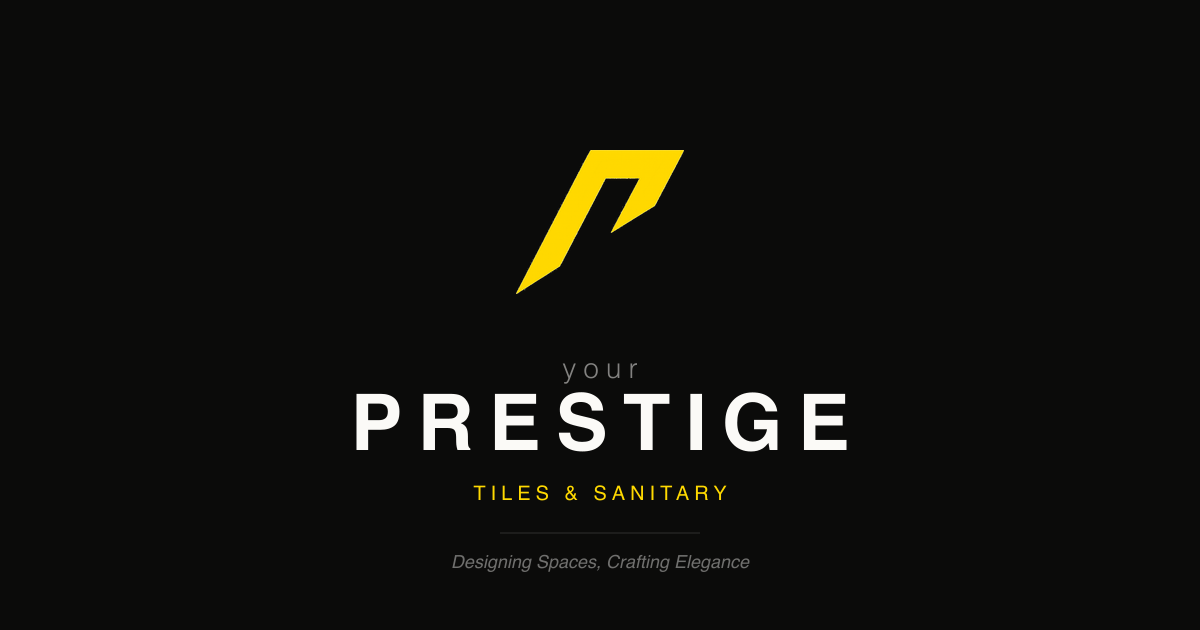
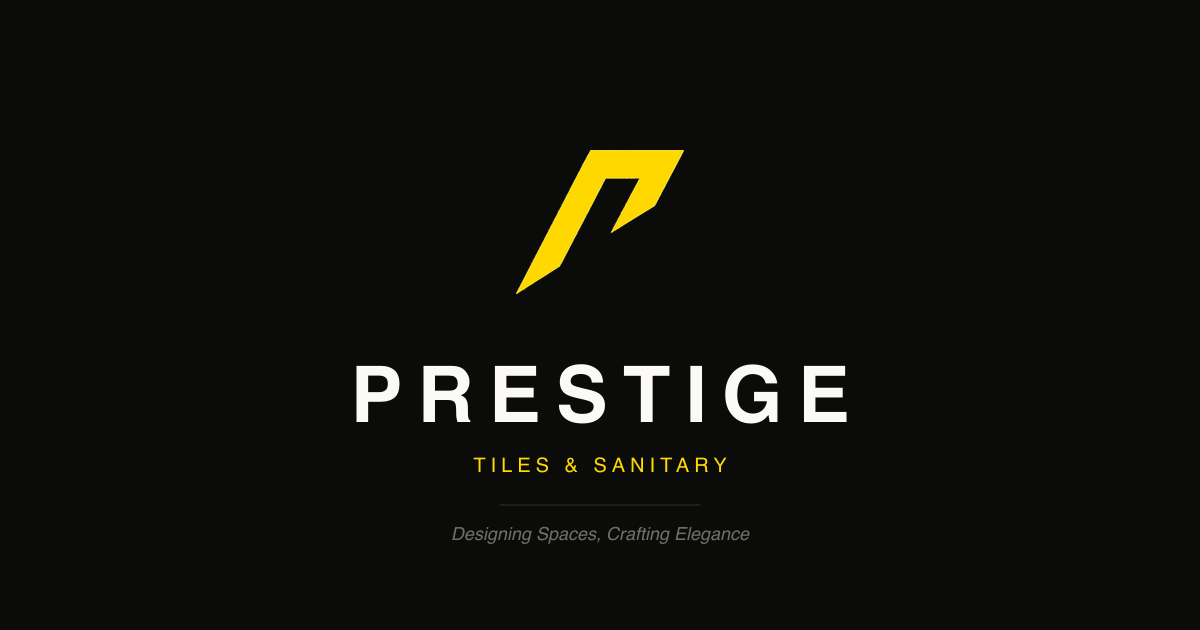
Rename the brand from "Your Prestige" to "Prestige"
Removes "your" from the brand name everywhere it is the name:

- Logo lockup: the lowercase "your" line above PRESTIGE is gone, along with
  the size entries and BRAND.wordmarkTop field that fed it.
- Footer closing wordmark: "YOUR PRESTIGE" -> "PRESTIGE".
- Copy, page metadata, email subjects, structured-data author name, the
  concierge greeting, homepage CMS defaults, the Prisma schema header, and
  the seed and showroom scripts.
- og-image.png (and its identical opengraph-image / twitter-image copies)
  had "your" baked into the pixels, so link previews would still have shown
  the old name. The word is removed and the spacing below it closed up.

Three email subjects needed care because the English pronoun sits next to
the brand: "Your Your Prestige Admin invite" (a doubled word that already
existed) is now "Your Prestige Admin invite", and "Reset your Your Prestige
Admin password" is now "Reset your Prestige Admin password".

Deliberately unchanged, because they are identifiers rather than the brand
name and changing them would break things: the your-prestige-in S3 bucket,
the yourprestige.in domain and email addresses, and the auth secret
literals. The repository name is likewise untouched.

Claude-Session: https://claude.ai/code/session_018QUmAz2obgYq1Ho8F8S1Mo

Changed region(s): [[0.2775, 0.573, 0.7092, 0.8143], [0.37, 0.8444, 0.6167, 0.9048]]

diff --git a/src/components/brand/Logo.tsx b/src/components/brand/Logo.tsx
@@ -6,14 +6,13 @@ import { cn } from "@/lib/utils";
  * Official Prestige brand lockup.
  *
  * The supplied logo asset is the "P" monogram only (public/brand/mark.png,
- * brand yellow #FFD900). The "your / PRESTIGE / TILES & SANITARY" wordmark
+ * brand yellow #FFD900). The "PRESTIGE / TILES & SANITARY" wordmark
  * and tagline are typeset here to match the official layout, so the lockup
  * stays crisp at any size and can adapt to light/dark surfaces.
  */
 
 export const BRAND = {
   name: "Prestige Tiles & Sanitary",
-  wordmarkTop: "your",
   wordmark: "PRESTIGE",
   wordmarkSub: "Tiles & Sanitary",
   tagline: "Designing Spaces, Crafting Elegance",
@@ -22,11 +21,11 @@ export const BRAND = {
 } as const;
 
 const sizes = {
-  xs: { mark: 20, top: "text-[0.5rem]", main: "text-[0.72rem]", sub: "text-[0.42rem]" },
-  sm: { mark: 26, top: "text-[0.55rem]", main: "text-[0.9rem]", sub: "text-[0.48rem]" },
-  md: { mark: 34, top: "text-[0.62rem]", main: "text-[1.15rem]", sub: "text-[0.55rem]" },
-  lg: { mark: 48, top: "text-[0.7rem]", main: "text-[1.6rem]", sub: "text-[0.62rem]" },
-  xl: { mark: 72, top: "text-[0.85rem]", main: "text-[2.4rem]", sub: "text-[0.8rem]" },
+  xs: { mark: 20, main: "text-[0.72rem]", sub: "text-[0.42rem]" },
+  sm: { mark: 26, main: "text-[0.9rem]", sub: "text-[0.48rem]" },
+  md: { mark: 34, main: "text-[1.15rem]", sub: "text-[0.55rem]" },
+  lg: { mark: 48, main: "text-[1.6rem]", sub: "text-[0.62rem]" },
+  xl: { mark: 72, main: "text-[2.4rem]", sub: "text-[0.8rem]" },
 } as const;
 
 interface LogoProps {
@@ -75,17 +74,8 @@ export function Logo({
         <span className={cn("flex flex-col leading-none", stacked && "items-center")}>
           <span
             className={cn(
-              s.top,
-              "font-light lowercase tracking-[0.42em]",
-              isLight ? "text-ivory/50" : "text-ink/45"
-            )}
-          >
-            {BRAND.wordmarkTop}
-          </span>
-          <span
-            className={cn(
               s.main,
-              "mt-0.5 font-bold uppercase tracking-[0.18em]",
+              "font-bold uppercase tracking-[0.18em]",
               isLight ? "text-ivory" : "text-ink"
             )}
           >

diff --git a/src/app/admin/(dashboard)/users/actions.ts b/src/app/admin/(dashboard)/users/actions.ts
@@ -58,7 +58,7 @@ export async function inviteUser(input: InviteUserInput) {
   const acceptUrl = `${process.env.AUTH_URL ?? "http://localhost:3000"}/admin/accept-invite?token=${inviteToken}`;
   await sendEmail({
     to: user.email,
-    subject: "You've been invited to Your Prestige Admin",
+    subject: "You've been invited to Prestige Admin",
     html: `<p>Hi ${user.name},</p><p>You've been invited as ${data.role.replace("_", " ")}. <a href="${acceptUrl}">Accept your invite</a> to set a password.</p>`,
   });
 
@@ -77,7 +77,7 @@ export async function resendInvite(id: string) {
   const acceptUrl = `${process.env.AUTH_URL ?? "http://localhost:3000"}/admin/accept-invite?token=${inviteToken}`;
   await sendEmail({
     to: user.email,
-    subject: "Your Your Prestige Admin invite",
+    subject: "Your Prestige Admin invite",
     html: `<p>Hi ${user.name},</p><p><a href="${acceptUrl}">Accept your invite</a> to set a password.</p>`,
   });
 
@@ -127,7 +127,7 @@ export async function sendPasswordReset(id: string) {
   const resetUrl = `${process.env.AUTH_URL ?? "http://localhost:3000"}/admin/reset-password?token=${resetToken}`;
   await sendEmail({
     to: user.email,
-    subject: "Reset your Your Prestige Admin password",
+    subject: "Reset your Prestige Admin password",
     html: `<p>Hi ${user.name},</p><p><a href="${resetUrl}">Reset your password</a>. This link expires in 1 hour.</p>`,
   });
 

diff --git a/src/app/admin/(dashboard)/content/homepage/schema.ts b/src/app/admin/(dashboard)/content/homepage/schema.ts
@@ -41,7 +41,7 @@ export const defaultHomepageHero: HomepageHeroInput = {
   // Prestige Story defaults
   storyEyebrow: "The Prestige Story",
   storyTitle: "Not a tile shop. A destination for design.",
-  storyText1: "For over fifteen years, Your Prestige has shaped the finest homes, hotels and landmarks of coastal Karnataka. Our Mangaluru showroom is an immersive gallery — full-scale bathroom sanctuaries, book-matched marble walls, and consultants who think like designers, not salespeople.",
+  storyText1: "For over fifteen years, Prestige has shaped the finest homes, hotels and landmarks of coastal Karnataka. Our Mangaluru showroom is an immersive gallery — full-scale bathroom sanctuaries, book-matched marble walls, and consultants who think like designers, not salespeople.",
   storyText2: "Every surface we curate is chosen for one reason: it deserves to be lived with.",
   storyMainImage: "https://images.unsplash.com/photo-1616486338812-3dadae4b4ace?q=80&w=1600&auto=format&fit=crop",
   storyDetailImage: "https://images.unsplash.com/photo-1615873968403-89e068629265?q=80&w=800&auto=format&fit=crop",

diff --git a/src/app/(site)/about/page.tsx b/src/app/(site)/about/page.tsx
@@ -14,7 +14,7 @@ import { siteUrl } from "@/lib/site-config";
 export const metadata: Metadata = {
   title: "About Us",
   description:
-    "Fifteen years of shaping coastal Karnataka's finest spaces. Discover the story behind Your Prestige — Mangaluru's destination for luxury tiles and sanitaryware.",
+    "Fifteen years of shaping coastal Karnataka's finest spaces. Discover the story behind Prestige — Mangaluru's destination for luxury tiles and sanitaryware.",
   alternates: { canonical: `${siteUrl}/about` },
 };
 
@@ -43,7 +43,7 @@ export default async function AboutPage() {
       <PageHero
         eyebrow="The Prestige Story"
         title="Fifteen years of shaping beautiful spaces."
-        description="From a single storefront to coastal Karnataka's most trusted destination for luxury surfaces — this is how we built Your Prestige."
+        description="From a single storefront to coastal Karnataka's most trusted destination for luxury surfaces — this is how we built Prestige."
       />
 
       {/* 1. MAIN HIGHLIGHT: Inauguration Section */}

diff --git a/src/components/site/home/AboutEditorial.tsx b/src/components/site/home/AboutEditorial.tsx
@@ -12,7 +12,7 @@ export function AboutEditorial({ data }: { data: HomepageHeroInput }) {
   const title = data?.storyTitle || "Not a tile shop. A destination for design.";
   const text1 =
     data?.storyText1 ||
-    "For over fifteen years, Your Prestige has shaped the finest homes, hotels and landmarks of coastal Karnataka. Our Mangaluru showroom is an immersive gallery — full-scale bathroom sanctuaries, book-matched marble walls, and consultants who think like designers, not salespeople.";
+    "For over fifteen years, Prestige has shaped the finest homes, hotels and landmarks of coastal Karnataka. Our Mangaluru showroom is an immersive gallery — full-scale bathroom sanctuaries, book-matched marble walls, and consultants who think like designers, not salespeople.";
   const text2 =
     data?.storyText2 || "Every surface we curate is chosen for one reason: it deserves to be lived with.";
   const mainImage =

diff --git a/src/app/api/leads/route.ts b/src/app/api/leads/route.ts
@@ -106,7 +106,7 @@ export async function POST(req: NextRequest) {
         : "our showroom";
       await sendEmail({
         to: lead.email,
-        subject: "Your Prestige showroom visit request",
+        subject: "Prestige showroom visit request",
         html: `<p>Hi ${lead.name},</p>
 <p>Thank you — we've received your request to visit <strong>${where}</strong> on
 <strong>${new Date(visitDate).toLocaleDateString("en-IN", { day: "numeric", month: "long", year: "numeric" })}</strong>${

diff --git a/src/components/site/home/Stats.tsx b/src/components/site/home/Stats.tsx
@@ -15,7 +15,7 @@ export function Stats() {
     <section className="bg-ink py-24 text-ivory md:py-32">
       <Container size="wide">
         <Reveal direction="none">
-          <p className="text-eyebrow mb-16 text-center text-gold">Why Your Prestige</p>
+          <p className="text-eyebrow mb-16 text-center text-gold">Why Prestige</p>
         </Reveal>
         <RevealStagger className="grid grid-cols-2 gap-x-6 gap-y-14 lg:grid-cols-4" stagger={0.12}>
           {stats.map((s) => (

diff --git a/src/components/site/Concierge.tsx b/src/components/site/Concierge.tsx
@@ -35,7 +35,7 @@ export function Concierge({
     {
       role: "assistant",
       content:
-        "Welcome to Your Prestige. I'm your personal design concierge — ask me about collections, brands, pricing, or let me arrange a private showroom visit.",
+        "Welcome to Prestige. I'm your personal design concierge — ask me about collections, brands, pricing, or let me arrange a private showroom visit.",
     },
   ]);
   const [input, setInput] = useState("");

diff --git a/src/app/(site)/offers/page.tsx b/src/app/(site)/offers/page.tsx
@@ -10,7 +10,7 @@ import { siteUrl } from "@/lib/site-config";
 export const metadata: Metadata = {
   title: "Offers",
   description:
-    "Seasonal privileges and project-scale advantages at Your Prestige, Mangaluru — crafted for those building something exceptional.",
+    "Seasonal privileges and project-scale advantages at Prestige, Mangaluru — crafted for those building something exceptional.",
   alternates: { canonical: `${siteUrl}/offers` },
 };
 

diff --git a/src/app/(site)/request-quote/page.tsx b/src/app/(site)/request-quote/page.tsx
@@ -10,7 +10,7 @@ import { siteUrl } from "@/lib/site-config";
 export const metadata: Metadata = {
   title: "Request a Quote",
   description:
-    "Get a tailored quotation for tiles and sanitaryware from Your Prestige, Mangaluru — detailed, transparent and fast.",
+    "Get a tailored quotation for tiles and sanitaryware from Prestige, Mangaluru — detailed, transparent and fast.",
   alternates: { canonical: `${siteUrl}/request-quote` },
 };
 

diff --git a/src/app/(site)/blog/(index)/page.tsx b/src/app/(site)/blog/(index)/page.tsx
@@ -11,7 +11,7 @@ import { siteUrl } from "@/lib/site-config";
 export const metadata: Metadata = {
   title: "Journal",
   description:
-    "Design intelligence from Your Prestige — tile guides, bathroom design principles and material wisdom for coastal Karnataka.",
+    "Design intelligence from Prestige — tile guides, bathroom design principles and material wisdom for coastal Karnataka.",
   alternates: { canonical: `${siteUrl}/blog` },
 };
 

diff --git a/src/app/(site)/faqs/page.tsx b/src/app/(site)/faqs/page.tsx
@@ -10,7 +10,7 @@ import { siteUrl } from "@/lib/site-config";
 export const metadata: Metadata = {
   title: "FAQs",
   description:
-    "Answers to common questions about visiting, brands, delivery, trade pricing and installation at Your Prestige, Mangaluru.",
+    "Answers to common questions about visiting, brands, delivery, trade pricing and installation at Prestige, Mangaluru.",
   alternates: { canonical: `${siteUrl}/faqs` },
 };
 
